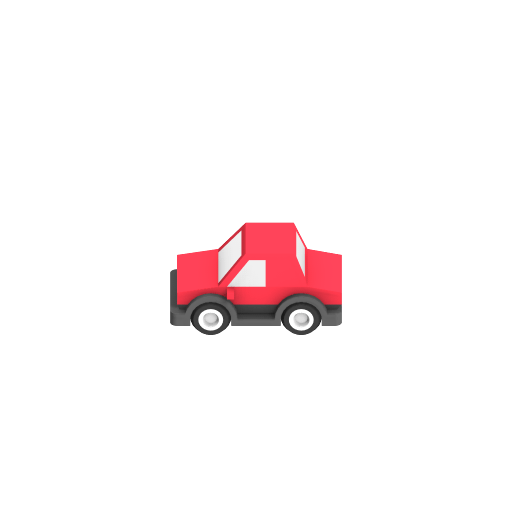
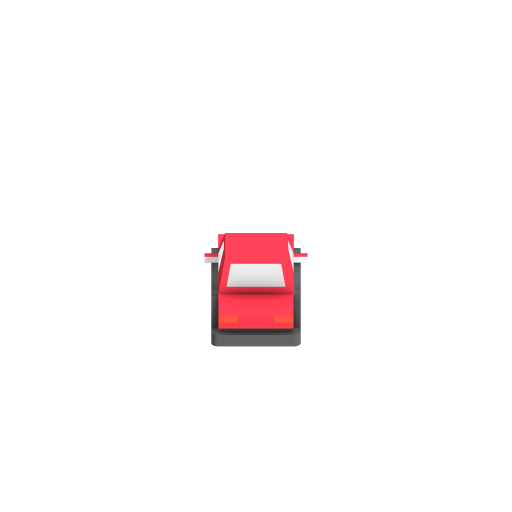
Add more cars and improve driving animation

Changed region(s): [[0.3125, 0.4062, 0.6875, 0.6875]]

diff --git a/source/display/car.h b/source/display/car.h
@@ -3,6 +3,8 @@
 
 #include <vector>
 #include <random>
+#include <string>
+#include <cmath>
 
 #include "../lib/olcPixelGameEngine.h"
 #include "../definitions.h"
@@ -16,6 +18,8 @@ class Car {
     const std::vector<olc::vf2d> PATH_CROSSING_EAST = {{1256, 490}};
     const std::vector<olc::vf2d> PATH_CROSSING_WEST = {{700, 490}, {350, 490}, {200, 360}, {-256, 360}};
     const float DEFAULT_SPEED = 500.0;
+    std::string IMAGES_FOLDER = "./source/assets/vehicles/";
+    const std::vector<std::string> CAR_TYPES = { "hatchbackSports", "sedan", "truck", "van"};
 
     public:
         Car(olc::PixelGameEngine* engine, std::chrono::high_resolution_clock::time_point startTime, std::chrono::duration<double> normalizeStartTimeTo, std::thread::id carId, crossingDatum crossingData);
@@ -32,70 +36,59 @@ class Car {
         CarState state;
         crossingDatum crossingData;
         olc::vf2d currPosition;
-        olc::Sprite *sprite = nullptr;
-        olc::Decal *decal = nullptr;
+        std::map<std::string, olc::Decal*> carDecals;
         std::chrono::duration<double> normalizeStartTimeTo;
         size_t currentPathIndex;
         std::vector<olc::vf2d> path;
         float speed;
+        int carType;
 
-        olc::Sprite* generateRandomCar(Direction direction);
+        std::map<std::string, olc::Decal*> generateCarDecals(Direction direction);
         void updateState(std::chrono::high_resolution_clock::time_point currentTime);
         void initState(CarState state);
         void updatePosition(float elapsedTime);
-        void render(olc::vf2d currPosition, float elapsedTime);
-        void moveAlongPath(const std::vector<olc::vf2d>& path, float speed, float elapsedTime);
+        void render(olc::vf2d currPosition, std::string cardinalDirection, float elapsedTime);
+        std::string moveAlongPath(const std::vector<olc::vf2d>& path, float speed, float elapsedTime);
+        std::string vectorToCardinalDirection(const olc::vf2d& directionVector);
         float calculateAverageSpeedAlongPath(const std::vector<olc::vf2d>& path);
 };
 
 Car::Car(olc::PixelGameEngine* engine, std::chrono::high_resolution_clock::time_point startTime, std::chrono::duration<double> normalizeStartTimeTo, std::thread::id carId, crossingDatum crossingData) 
-    : engine(engine), startTime(startTime), normalizeStartTimeTo(normalizeStartTimeTo), carId(carId), crossingData(crossingData) {
-    if (crossingData.direction == Direction::EAST){
-        currPosition = START_EAST;
-        sprite = generateRandomCar(crossingData.direction);
-    } else {
-        currPosition = START_WEST;
-        sprite = generateRandomCar(crossingData.direction);
-    }
+: engine(engine), startTime(startTime), normalizeStartTimeTo(normalizeStartTimeTo), carId(carId), crossingData(crossingData) {
+    currPosition = (crossingData.direction == Direction::EAST) ? currPosition = START_EAST : currPosition = START_WEST;
+    carDecals = generateCarDecals(crossingData.direction);
     currentPathIndex = 0;
     state = CarState::HIDDEN;
-    decal = new olc::Decal(sprite);
     speed = DEFAULT_SPEED;
 }
 
 Car::~Car() {
-    delete sprite;
-    delete decal;
+    for (auto& pair : carDecals) {
+        delete pair.second;
+    }
 }
 
-olc::Sprite* Car::generateRandomCar(Direction direction) {
+std::map<std::string, olc::Decal*> Car::generateCarDecals(Direction direction) {
     std::random_device rand;
     std::mt19937 gen(rand());
-    std::uniform_int_distribution<int> distrib(1, 4);
+    std::uniform_int_distribution<int> distrib(0, CAR_TYPES.size());
+    carType = distrib(gen);
+    
+    std::map<std::string, olc::Decal*> carSpritesDecal;
+    std::string imagePath = IMAGES_FOLDER + CAR_TYPES[carType];
 
-    int randomNumber = distrib(gen);
-    std::string imagePath = "./source/assets/vehicles/";
+    carSpritesDecal["E"] = new olc::Decal(new olc::Sprite(imagePath + "_N.png"));
+    carSpritesDecal["W"] = new olc::Decal(new olc::Sprite(imagePath + "_S.png"));
+    carSpritesDecal["S"] = new olc::Decal(new olc::Sprite(imagePath + "_E.png"));
+    carSpritesDecal["N"] = new olc::Decal(new olc::Sprite(imagePath + "_W.png"));
+    carSpritesDecal["SE"] = new olc::Decal(new olc::Sprite(imagePath + "_NE.png"));
+    carSpritesDecal["NE"] = new olc::Decal(new olc::Sprite(imagePath + "_NW.png"));
+    carSpritesDecal["SW"] = new olc::Decal(new olc::Sprite(imagePath + "_SE.png"));
+    carSpritesDecal["NW"] = new olc::Decal(new olc::Sprite(imagePath + "_SW.png"));
 
-    switch (randomNumber) {
-        case 1:
-            imagePath += (direction == Direction::EAST) ? "hatchbackSports_E.png" : "hatchbackSports_W.png";
-            break;
-        case 2:
-            imagePath += (direction == Direction::EAST) ? "sedan_E.png" : "sedan_W.png";
-            break;
-        case 3:
-            imagePath += (direction == Direction::EAST) ? "truck_E.png" : "truck_W.png";
-            break;
-        case 4:
-            imagePath += (direction == Direction::EAST) ? "van_E.png" : "van_W.png";
-            break;
-        default:
-            imagePath += (direction == Direction::EAST) ? "hatchbackSports_E.png" : "hatchbackSports_W.png";
-            break;
-    }
-
-    return new olc::Sprite(imagePath);
+    return carSpritesDecal;
 }
+
 void Car::update(std::chrono::high_resolution_clock::time_point currentTime, float elapsedTime) {
     updateState(currentTime);
     updatePosition(elapsedTime);
@@ -144,32 +137,35 @@ void Car::initState(CarState state) {
 }
 
 void Car::updatePosition(float elapsedTime) {
+    std::string cardinalDirection;
+
     switch(state) {
         case CarState::WAITING_VISIBLE:
         case CarState::CROSSING:
-            moveAlongPath(path, speed, elapsedTime);
-            render(currPosition, elapsedTime);
+            cardinalDirection = moveAlongPath(path, speed, elapsedTime);
+            render(currPosition, cardinalDirection, elapsedTime);
             break;
         default:
             break;
     }
 }
 
-void Car::render(olc::vf2d currPosition, float elapsedTime) {
-    engine->DrawDecal(currPosition - OFFSET, decal);
+void Car::render(olc::vf2d currPosition, std::string cardinalDirection, float elapsedTime) {
+    engine->DrawDecal(currPosition - OFFSET, carDecals[cardinalDirection]);
 }
-//todo refactor below out?
-void Car::moveAlongPath(const std::vector<olc::vf2d>& path, float speed, float elapsedTime) {
+
+std::string Car::moveAlongPath(const std::vector<olc::vf2d>& path, float speed, float elapsedTime) {
     if(currentPathIndex >= path.size()) {
-        return;
+        return (crossingData.direction == Direction::EAST)? "E": "W";
     }
 
     olc::vf2d distanceToTarget = path[currentPathIndex] - currPosition;
     olc::vf2d distanceToMove = {0.0, 0.0};
+    olc::vf2d directionVector = distanceToTarget.norm();
     // std::cout << "distanceToTarget " << std::to_string(distanceToTarget.x) << std::to_string(distanceToTarget.y) <<std::endl;
 
     if(distanceToTarget.mag2() > 0.0) {
-        distanceToMove = distanceToTarget.norm() * speed * elapsedTime;
+        distanceToMove = directionVector * speed * elapsedTime;
         // std::cout << "distanceToMove " << std::to_string(distanceToMove.x) << std::to_string(distanceToMove.y) << std::endl;
     }
 
@@ -179,6 +175,40 @@ void Car::moveAlongPath(const std::vector<olc::vf2d>& path, float speed, float e
     } 
 
     currPosition += distanceToMove;
+
+    return vectorToCardinalDirection(directionVector);
+}
+
+std::string Car::vectorToCardinalDirection(const olc::vf2d& directionVector) {
+    float angleRadians = std::atan2(directionVector.y, directionVector.x);
+    float angleDegrees = angleRadians * (180.0f / M_PI);
+
+    // Normalize angle to be within [0, 360) degrees
+    if (angleDegrees < 0.0f) {
+        angleDegrees += 360.0f;
+    }
+
+    std::string cardinalDirection;
+
+    if (angleDegrees >= 337.5f || angleDegrees < 22.5f) {
+        cardinalDirection = "E";
+    } else if (angleDegrees >= 22.5f && angleDegrees < 67.5f) {
+        cardinalDirection = "SE";
+    } else if (angleDegrees >= 67.5f && angleDegrees < 112.5f) {
+        cardinalDirection = "N";
+    } else if (angleDegrees >= 112.5f && angleDegrees < 157.5f) {
+        cardinalDirection = "SW";
+    } else if (angleDegrees >= 157.5f && angleDegrees < 202.5f) {
+        cardinalDirection = "W";
+    } else if (angleDegrees >= 202.5f && angleDegrees < 247.5f) {
+        cardinalDirection = "NW";
+    } else if (angleDegrees >= 247.5f && angleDegrees < 292.5f) {
+        cardinalDirection = "S";
+    } else if (angleDegrees >= 292.5f && angleDegrees < 337.5f) {
+        cardinalDirection = "NE";
+    }
+
+    return cardinalDirection;
 }
 
 float Car::calculateAverageSpeedAlongPath(const std::vector<olc::vf2d>& path) {

diff --git a/source/main.cpp b/source/main.cpp
@@ -22,7 +22,7 @@ class RenderSimulation : public olc::PixelGameEngine {
         olc::Decal* roadDecal = nullptr;
 
 	bool OnUserCreate() override {
-        TrafficSimulator trafficSimulator(Strategy::TIME_BASED_PREEMPTION, 3, 3, false); //todo what can be passed in
+        TrafficSimulator trafficSimulator(Strategy::FIRST_IN_FIRST_OUT, 5, 5, false); //todo what can be passed in
         simStats = trafficSimulator.runSimulation();
 
 		roadSprite = new olc::Sprite("./source/assets/road2.png");
